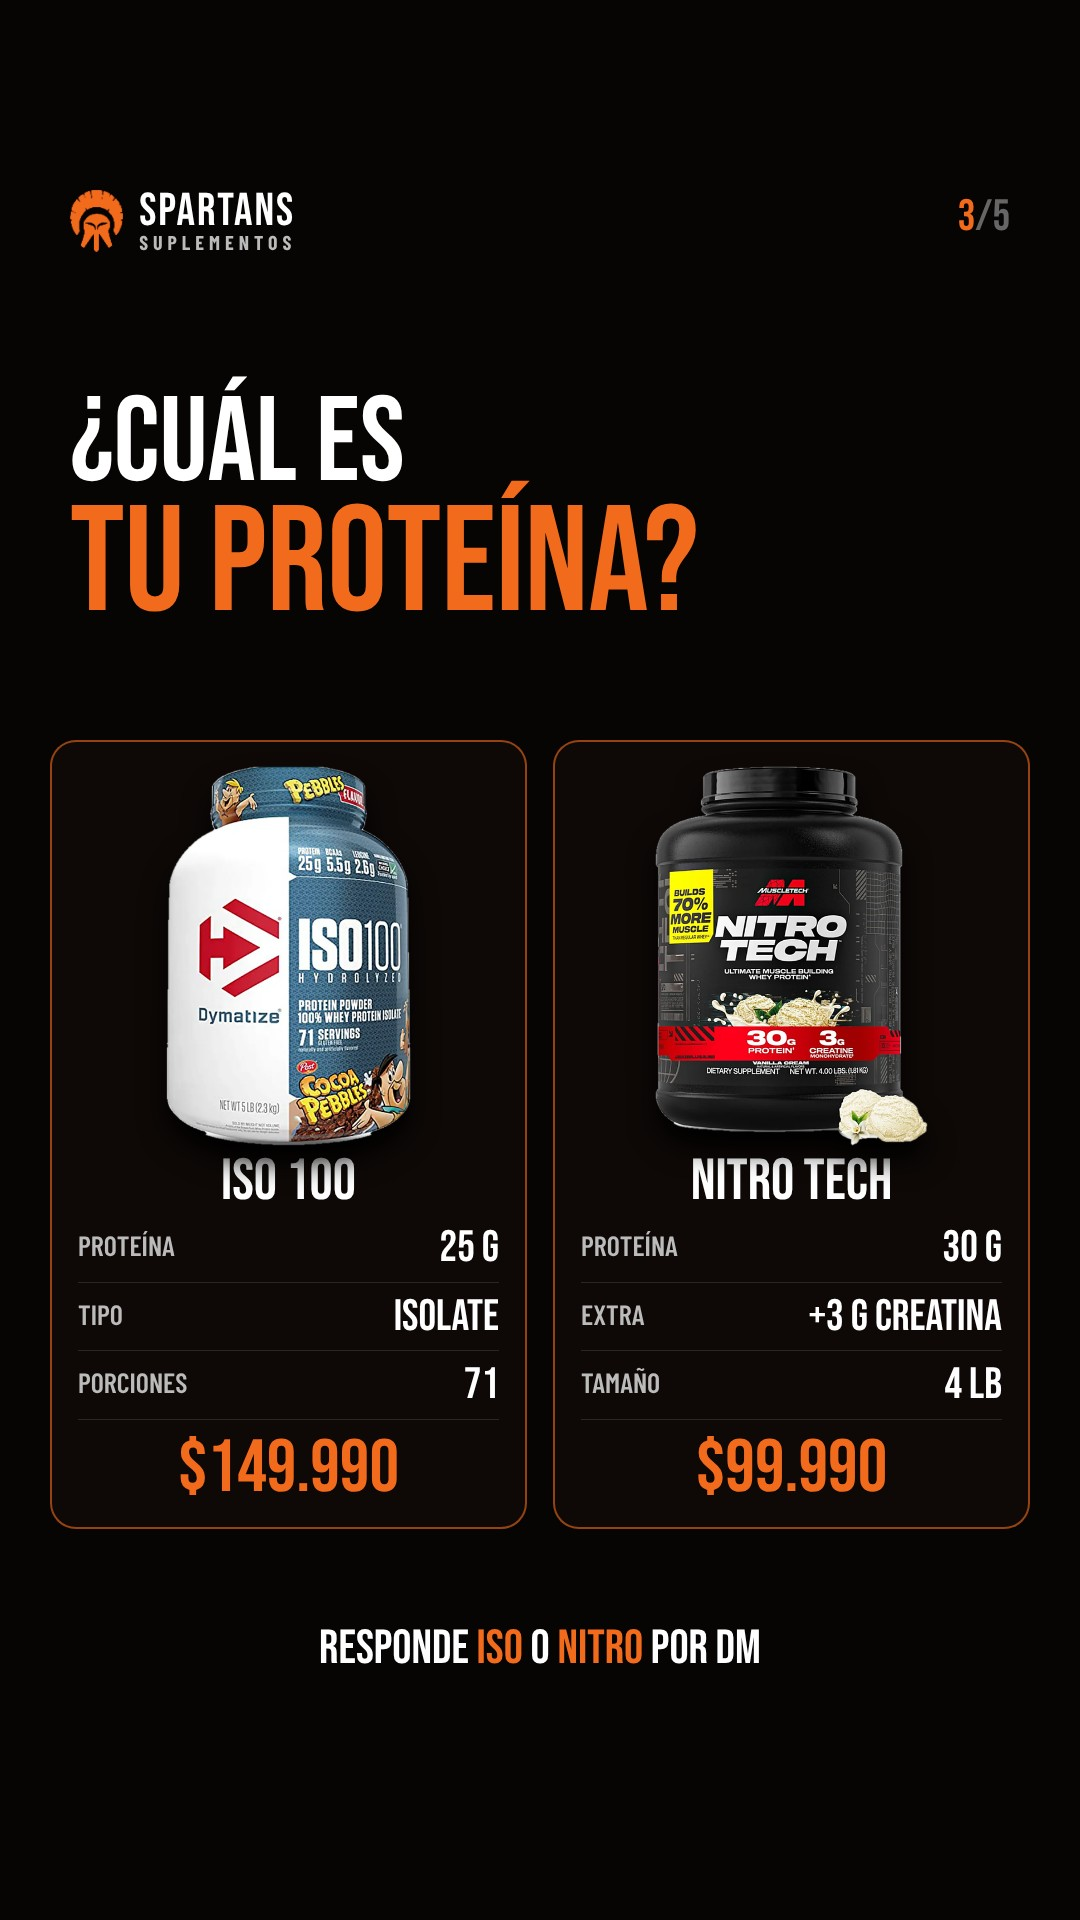
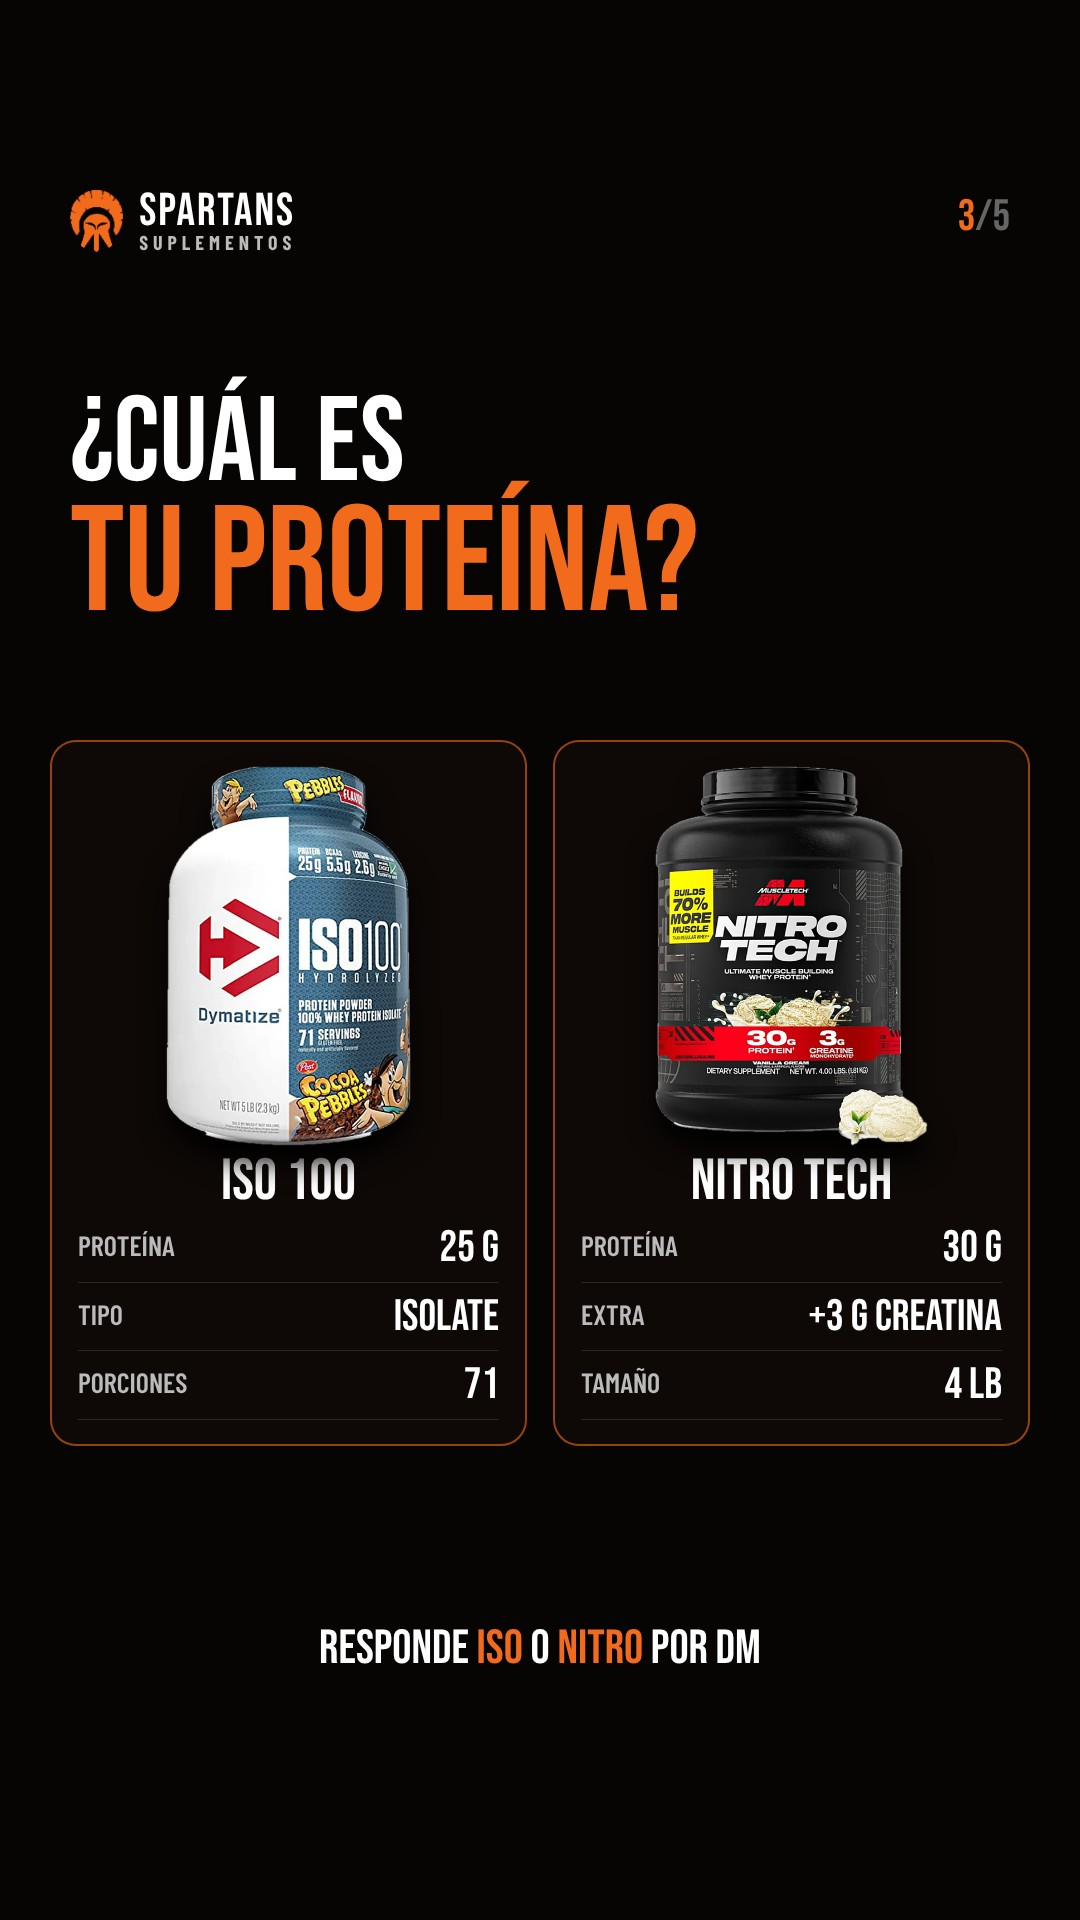
Historias sin precios de productos: serie creatina y lanzamiento 11-oct; regla en CLAUDE.md
Claude-Session: https://claude.ai/code/session_01L8gB8Vcucavm81YHdPaFLQ

Changed region(s): [[0.1528, 0.75, 0.3667, 0.7812], [0.6417, 0.75, 0.825, 0.7812], [0.4583, 0.75, 0.4889, 0.7812]]

diff --git a/kit/build/nuevos.py b/kit/build/nuevos.py
@@ -99,14 +99,14 @@ def stories():
 {fan("", 1530)}<img src="{I(NEW[5])}" style="position:absolute;left:560px;top:560px;width:460px;transform:rotate(-14deg);filter:drop-shadow(0 14px 14px rgba(0,0,0,.85))">
 <div style="position:absolute;bottom:230px;left:0;right:0;text-align:center"><div class="big" style="font-size:52px">ISO 100 · NITRO TECH · FINAFLEX · OMEGA 3 · GUARANÁ · BARRAS</div></div>''', 72, 2)))
     # 3 esto o esto: proteínas
-    def col(img, name, rows, price):
+    def col(img, name, rows, price=''):
         r = ''.join(f'<div style="display:flex;justify-content:space-between;padding:14px 0;border-bottom:1px solid rgba(255,255,255,.12)"><span style="color:#bbb;font-weight:600;font-size:28px;text-transform:uppercase">{a}</span><span class="big" style="font-size:44px">{b}</span></div>' for a, b in rows)
         return f'''<div class="card" style="flex:1;padding:24px 26px;text-align:center"><img src="{I(img)}" style="height:380px;filter:drop-shadow(0 18px 14px #000)">
-<div class="big" style="font-size:58px;margin:10px 0 6px">{name}</div><div style="text-align:left">{r}</div><div class="big o" style="font-size:74px;margin-top:16px">{price}</div></div>'''
+<div class="big" style="font-size:58px;margin:10px 0 6px">{name}</div><div style="text-align:left">{r}</div></div>'''
     s.append(('h3_proteinas', sp(f'''<div style="position:absolute;top:390px;left:70px;right:70px"><div class="big" style="font-size:120px">¿CUÁL ES</div><div class="big o" style="font-size:150px">TU PROTEÍNA?</div></div>
 <div style="position:absolute;top:740px;left:50px;right:50px;display:flex;gap:26px">
-{col("p_iso100.png", "ISO 100", [("Proteína", "25 g"), ("Tipo", "ISOLATE"), ("Porciones", "71")], "$149.990")}
-{col("p_nitro.png", "NITRO TECH", [("Proteína", "30 g"), ("Extra", "+3 G CREATINA"), ("Tamaño", "4 LB")], "$99.990")}</div>
+{col("p_iso100.png", "ISO 100", [("Proteína", "25 g"), ("Tipo", "ISOLATE"), ("Porciones", "71")])}
+{col("p_nitro.png", "NITRO TECH", [("Proteína", "30 g"), ("Extra", "+3 G CREATINA"), ("Tamaño", "4 LB")])}</div>
 <div style="position:absolute;bottom:250px;left:0;right:0;text-align:center" class="big"><span style="font-size:48px">RESPONDE <span class="o">ISO</span> O <span class="o">NITRO</span> POR DM</span></div>''', 73, 3)))
     # 4 finaflex
     s.append(('h4_finaflex', sp(f'''<div class="glow" style="left:240px;top:760px;width:800px;height:900px"></div>
@@ -114,15 +114,15 @@ def stories():
 <div class="big" style="font-size:260px;margin-top:24px">1 KG</div><div class="big o" style="font-size:120px">200 PORCIONES</div></div>
 <img src="{I("p_finaflex.png")}" style="position:absolute;right:40px;top:830px;height:700px;transform:rotate(5deg);filter:drop-shadow(0 30px 30px #000)">
 <div style="position:absolute;left:70px;top:900px;width:430px">
- <div class="card" style="padding:30px 32px;margin-bottom:24px"><div style="font-weight:700;font-size:30px;color:#bbb">TE SALE A</div><div class="big o" style="font-size:120px">$250</div><div style="font-weight:700;font-size:30px;color:#bbb">AL DÍA</div></div>
- <div class="card" style="padding:26px 32px"><div class="big" style="font-size:96px">$49.990</div><div style="font-weight:600;font-size:26px;color:#bbb;text-transform:uppercase">Finaflex · micronizada · NSF</div></div></div>
+ <div class="card" style="padding:30px 32px;margin-bottom:24px"><div style="font-weight:700;font-size:30px;color:#bbb">TE DURA</div><div class="big o" style="font-size:120px">+6 MESES</div><div style="font-weight:700;font-size:30px;color:#bbb">TOMANDO 5 G AL DÍA</div></div>
+ <div class="card" style="padding:26px 32px"><div class="big" style="font-size:72px">MICRONIZADA</div><div style="font-weight:600;font-size:26px;color:#bbb;text-transform:uppercase">Finaflex · certificada NSF</div></div></div>
 <div style="position:absolute;bottom:250px;left:0;right:0;text-align:center" class="big"><span style="font-size:50px">ESCRÍBENOS <span class="o">"CREATINA"</span> POR DM</span></div>''', 74, 4)))
     # 5 al paso
     s.append(('h5_al_paso', sp(f'''<div style="position:absolute;top:400px;left:70px;right:70px"><div class="big" style="font-size:150px">PARA ANTES</div><div class="big o" style="font-size:150px;text-shadow:0 0 40px rgba(242,106,27,.45)">Y DESPUÉS</div></div>
 <div class="glow" style="left:90px;top:800px;width:900px;height:800px"></div>
 <div style="position:absolute;top:760px;left:50px;right:50px;display:flex;gap:26px">
- <div class="card" style="flex:1;padding:28px;text-align:center"><div class="big o" style="font-size:44px">ANTES DE ENTRENAR</div><img src="{I("p_guarana.png")}" style="height:440px;margin:16px 0;filter:drop-shadow(0 18px 14px #000)"><div class="big" style="font-size:52px">GUARANÁ SHOT</div><div class="big o" style="font-size:84px">$2.490</div></div>
- <div class="card" style="flex:1;padding:28px;text-align:center;display:flex;flex-direction:column;align-items:center"><div class="big o" style="font-size:44px">DESPUÉS O DE COLACIÓN</div><div style="flex:1;display:flex;align-items:center"><img src="{I("p_barra.png")}" style="width:400px;transform:rotate(-12deg);filter:drop-shadow(0 18px 14px #000)"></div><div class="big" style="font-size:52px">BARRA XXL COCO</div><div class="big o" style="font-size:84px">$2.490</div></div></div>
+ <div class="card" style="flex:1;padding:28px;text-align:center"><div class="big o" style="font-size:44px">ANTES DE ENTRENAR</div><img src="{I("p_guarana.png")}" style="height:440px;margin:16px 0;filter:drop-shadow(0 18px 14px #000)"><div class="big" style="font-size:52px">GUARANÁ SHOT</div><div class="big o" style="font-size:52px">200 MG CAFEÍNA</div></div>
+ <div class="card" style="flex:1;padding:28px;text-align:center;display:flex;flex-direction:column;align-items:center"><div class="big o" style="font-size:44px">DESPUÉS O DE COLACIÓN</div><div style="flex:1;display:flex;align-items:center"><img src="{I("p_barra.png")}" style="width:400px;transform:rotate(-12deg);filter:drop-shadow(0 18px 14px #000)"></div><div class="big" style="font-size:52px">BARRA XXL COCO</div><div class="big o" style="font-size:52px">36% PROTEÍNA</div></div></div>
 <div style="position:absolute;top:1450px;left:70px;right:70px;text-align:center" class="note">Guaraná Shot contiene cafeína (200 mg por shot). No apto para menores ni embarazadas.</div>
 <div style="position:absolute;bottom:230px;left:0;right:0;text-align:center"><div class="kick" style="font-size:62px">PÍDELOS POR DM 📩</div><div style="font-weight:700;font-size:28px;margin-top:18px;color:#ddd">DELIVERY EN CALDERA $1.500 · ENVÍOS A TODO CHILE</div></div>''', 75, 5)))
     return s

diff --git a/kit/build/stories2.py b/kit/build/stories2.py
@@ -58,22 +58,22 @@ for k,(m,r) in enumerate(MYTHS):
 </div>
 <img src="{I(['p_usn_crea.png','p_mt_uva.png','p_mt_sin.png'][k])}" style="position:absolute;right:40px;top:1390px;height:430px;transform:rotate({[-10,8,-6][k]}deg);filter:drop-shadow(0 30px 30px #000)"><div class="tap" style="text-align:left;left:70px">SIGUE <b>→</b></div>''',300+k*17,k+2)))
 # 5 cost per day
-rows=[('p_usn_crea.png','Creatina USN','$25.000 · 60 porciones','$417'),('p_mt_sin.png','MuscleTech sin sabor','$39.000 · 80 porciones','$488'),('p_mt_uva.png','MuscleTech uva','$43.000 · 60 porciones','$717')]
+rows=[('p_usn_crea.png','Creatina USN','300 g · 60 porciones','60'),('p_mt_sin.png','MuscleTech sin sabor','400 g · 80 porciones','80'),('p_finaflex.png','Finaflex','1 kg · 200 porciones','200')]
 rh=''.join(f'''<div class="card" style="display:flex;align-items:center;gap:30px;padding:26px 34px;margin-bottom:26px">
  <img src="{I(i)}" style="height:190px;filter:drop-shadow(0 10px 10px #000)">
  <div style="flex:1"><div style="font-weight:800;font-size:40px;text-transform:uppercase">{a}</div><div class="fine">{b}</div></div>
- <div style="text-align:right"><div class="big o" style="font-size:110px">{c}</div><div class="fine" style="margin-top:-6px">AL DÍA</div></div></div>''' for i,a,b,c in rows)
-pages.append(('s5_costo_dia',page(f'''
+ <div style="text-align:right"><div class="big o" style="font-size:110px">{c}</div><div class="fine" style="margin-top:-6px">DÍAS</div></div></div>''' for i,a,b,c in rows)
+pages.append(('s5_cuanto_dura',page(f'''
 <div style="position:absolute;top:400px;left:70px;right:70px">
- <div class="big" style="font-size:140px">¿CUÁNTO TE</div><div class="big" style="font-size:140px">CUESTA <span class="o">AL DÍA?</span></div>
- <div class="fine" style="margin-top:18px;font-size:32px;color:#ccc">Precio dividido por las porciones de cada envase</div>
+ <div class="big" style="font-size:140px">¿CUÁNTO TE</div><div class="big" style="font-size:140px">DURA <span class="o">TU CREATINA?</span></div>
+ <div class="fine" style="margin-top:18px;font-size:32px;color:#ccc">Tomando 5 g al día, todos los días</div>
 </div>
 <div style="position:absolute;top:800px;left:60px;right:60px">{rh}</div>
-<div style="position:absolute;top:1650px;left:0;right:0;text-align:center"><div class="kick" style="font-size:66px">MENOS QUE UN CAFÉ ☕</div></div>''',555,5)))
+<div style="position:absolute;top:1650px;left:0;right:0;text-align:center"><div class="kick" style="font-size:60px">ESCRÍBENOS "CREATINA" 📩</div></div>''',555,5)))
 # 6 stack
-st=[('flame','VOLUMEN',['p_whey.png','p_mt_sin.png'],'Whey + Creatina MuscleTech','$109.000'),
-    ('bolt','DEFINICIÓN',['p_lipo.png','p_whey.png'],'Lipo 6 + Whey USN','$100.000'),
-    ('heart','SALUD BASE',['p_multi.png','p_usn_crea.png'],'Multivitamínico + Creatina USN','$55.000')]
+st=[('flame','VOLUMEN',['p_whey.png','p_mt_sin.png'],'Whey + Creatina MuscleTech','🎁'),
+    ('bolt','DEFINICIÓN',['p_lipo.png','p_whey.png'],'Lipo 6 + Whey USN','📩'),
+    ('heart','SALUD BASE',['p_multi.png','p_usn_crea.png'],'Multivitamínico + Creatina USN','🎁')]
 sh=''.join(f'''<div class="card" style="display:flex;align-items:center;gap:22px;padding:22px 30px;margin-bottom:24px">
  <div style="display:flex;align-items:flex-end">{''.join(f'<img src="{I(x)}" style="height:{170 if j==0 else 140}px;margin-right:-26px;filter:drop-shadow(0 10px 10px #000)">' for j,x in enumerate(ims))}</div>
  <div style="flex:1;margin-left:36px"><div style="display:flex;align-items:center;gap:10px;color:{OR}">{ic(icn,40)}<span class="big" style="font-size:66px">{t}</span></div><div style="font-weight:600;font-size:30px;text-transform:uppercase">{d}</div></div>

diff --git a/CLAUDE.md b/CLAUDE.md
@@ -49,7 +49,7 @@ Productos nuevos que lleguen: no publicarlos hasta que el dueño mande imagen y 
 
 ## Identidad visual
 
-Fondo negro (#060504) con brasas naranjas, naranjo Spartans #F26A1B, blanco. Títulos en Bebas Neue, textos en Barlow Condensed (mayúsculas). Casco naranjo (kit/build/helmet.png) + "SPARTANS" arriba. Feed 1080×1350 (4:5); historias 1080×1920 con lo importante fuera de los 250 px superiores e inferiores. Historias numeradas (2/5). No repetir el mismo formato en feed e historias; evitar que todo parezca catálogo.
+Fondo negro (#060504) con brasas naranjas, naranjo Spartans #F26A1B, blanco. Títulos en Bebas Neue, textos en Barlow Condensed (mayúsculas). Casco naranjo (kit/build/helmet.png) + "SPARTANS" arriba. Feed 1080×1350 (4:5); historias 1080×1920 con lo importante fuera de los 250 px superiores e inferiores. Historias numeradas (2/5). **Historias sin precios de productos** (decisión del dueño): en historias usar beneficios, datos (gramos, porciones, días que dura) y llamado al DM; los precios van solo en carruseles de catálogo del feed, reels de producto y la destacada Precios. El costo de delivery ($1.500) sí puede aparecer. No repetir el mismo formato en feed e historias; evitar que todo parezca catálogo.
 
 ## Cómo generar imágenes
 

diff --git a/registro.md b/registro.md
@@ -9,3 +9,4 @@
 | 2026-10-10 | Historia (1) | Teaser "Mañana 10 AM llega algo nuevo" con siluetas (cuenta regresiva del lanzamiento) | Historias/2026-10-10/teaser_manana_10am.jpg |
 | 2026-10-11 | Reel animado (15 s) | Nuevo stock: 6 productos nuevos con precio | Reels/nuevo_stock.mp4 |
 | 2026-10-13 | Reel animado (17 s) | Educativo: ¿cuánta proteína necesitas al día? (1,4–2 g/kg, ISSN; ejemplo 70 kg; equivalencias) | Reels/cuanta_proteina.mp4 |
+- 2026-10-11 · ajuste · historias sin precio (serie_creatina s5 → s5_cuanto_dura; 2026-10-11 h3–h5 sin precios) · regla nueva en CLAUDE.md
